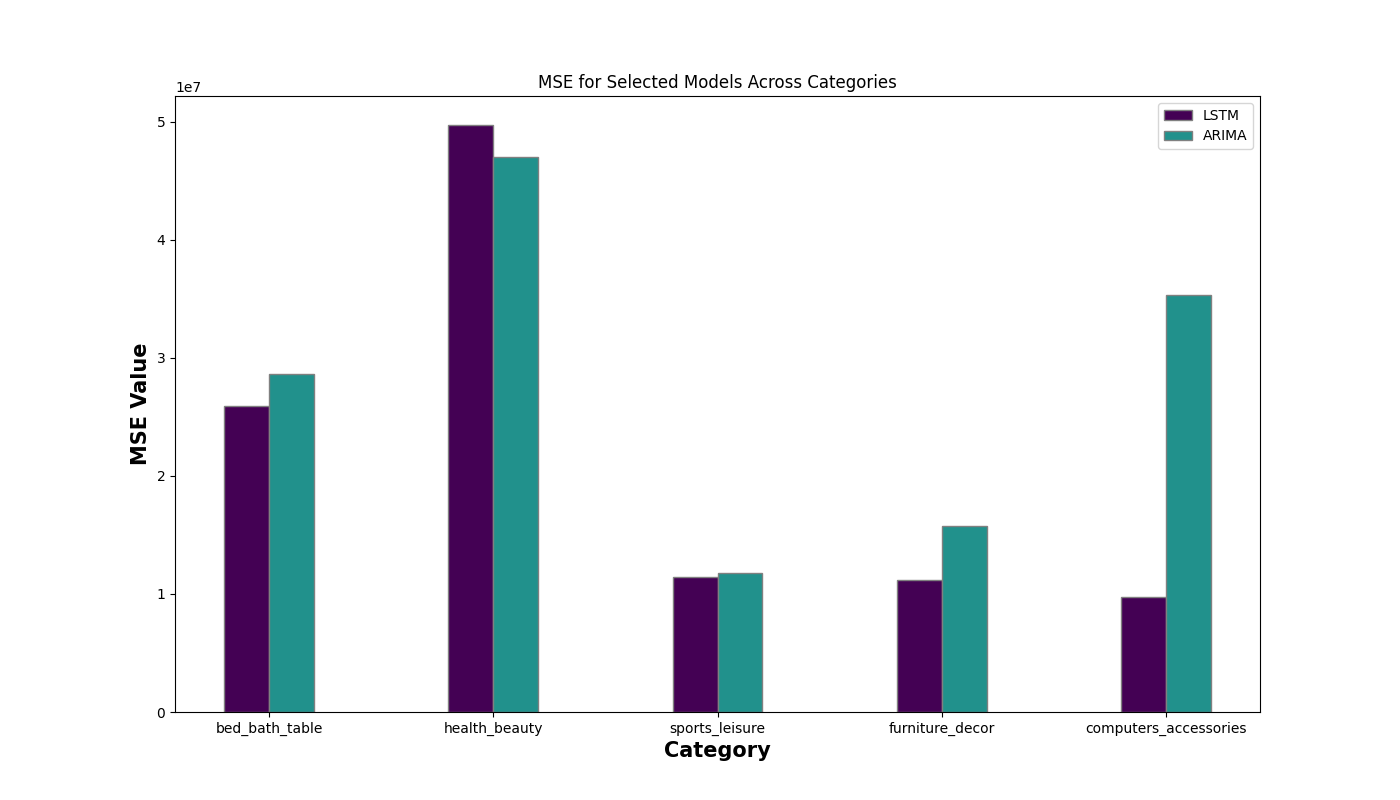
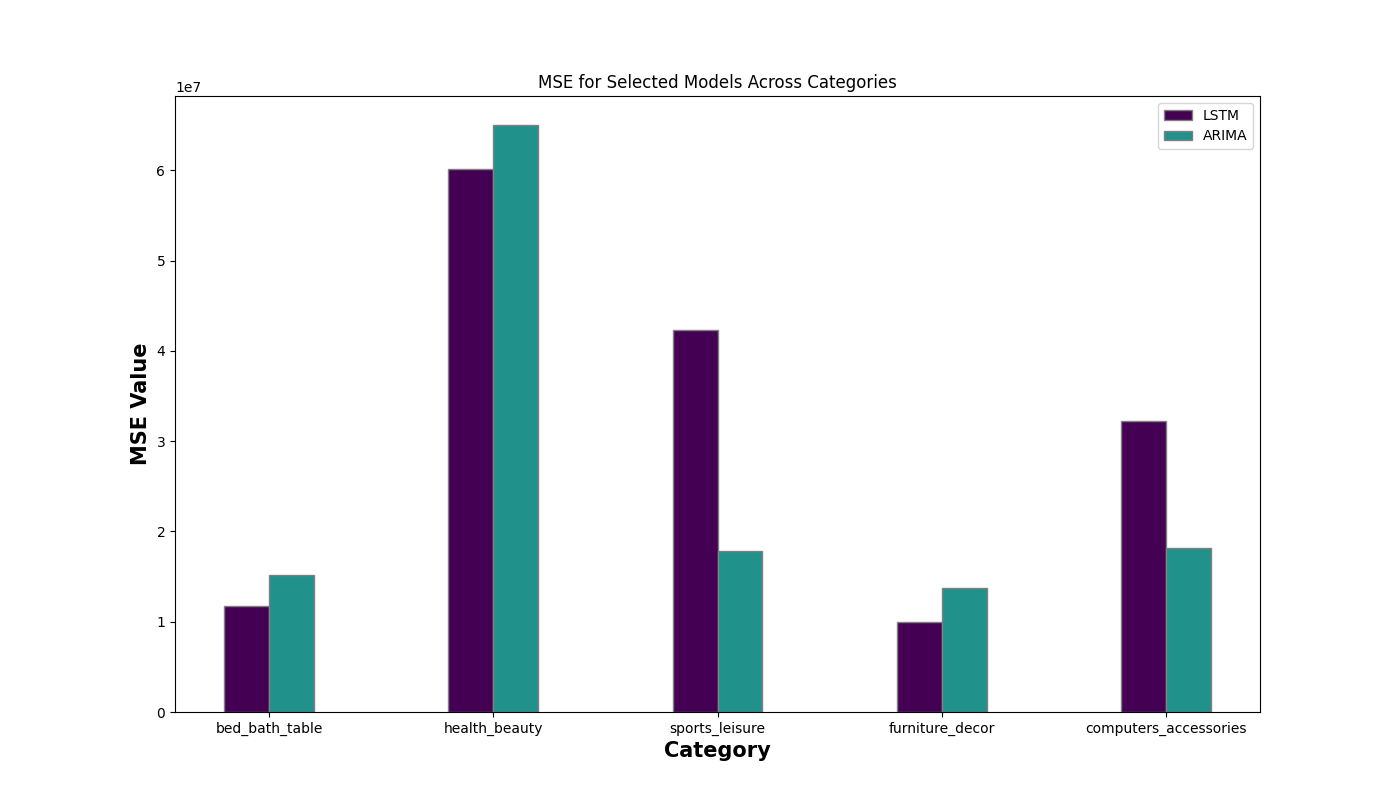
More minor fixes

diff --git a/LSTM.py b/LSTM.py
@@ -11,9 +11,9 @@ import os
 import pandas as pd
 
 # Parameters
-time_steps = 2 # Number of weeks used to predict next weeks data
+time_steps = 1 # Number of weeks used to predict next weeks data
 training_percentage = 0.8
-validation_percentage = 0.5 # what percentage of the validation/testing data should be use for validation
+validation_percentage = 0.3 # what percentage of the validation/testing data should be use for validation
 output_name = 'price' #Name of the output feature
 
 # The categories list for which product type a model should be created
@@ -41,12 +41,12 @@ for category in categories:
 
     # Create train, validate, and test data sets
     training_weeks = int(training_percentage * len(X))
-    X_train, X_validate = split_data(X, training_weeks)
-    y_train, y_validate = split_data(y, training_weeks)
+    X_train, X_test = split_data(X, training_weeks)
+    y_train, y_test = split_data(y, training_weeks)
 
-    validation_weeks = int(validation_percentage * (len(X) - training_weeks))
-    X_validate, X_test = split_data(X_validate, validation_weeks)
-    y_validate, y_test = split_data(y_validate, validation_weeks)
+    validation_weeks = int((1-validation_percentage) * training_weeks)
+    X_validate = X_train[validation_weeks:]
+    y_validate = y_train[validation_weeks:]
 
     # Scale train and validation data
     X_train_scaled, X_validate_scaled, X_test_scaled, X_scaler = scale_data(X_train, X_validate, X_test)
@@ -91,7 +91,7 @@ for category in categories:
     # Store validation data
     error_metrics[category] = {'mse': mse, 'mae': mae, 'r2': r2}
     y_pred_all[category] = y_pred
-    y_true_all[category] = y_test
+    y_true_all[category] = y_true
     histories[category] = history
 
 # Store error metrics

diff --git a/plot.py b/plot.py
@@ -11,7 +11,7 @@ result_path = os.path.join(os.getcwd(), "results")
 # input parameters
 output_name = 'price'
 categories = ["bed_bath_table", "health_beauty", "sports_leisure", "furniture_decor", "computers_accessories"]
-model = 'ARIMA'
+model = 'LSTM'
 
 # plot parameters
 y_pred = pd.read_csv(os.path.join(result_path, model + '_y_pred.csv'))
@@ -35,7 +35,7 @@ def plot_selected_category(change):
         plt.figure(figsize=(12, 4))
 
         # Plot 1: Training and validation loss
-        if model == 'LTSM':
+        if model == 'LSTM':
             plt.subplot(1, 2, 1)
             df_history = pd.read_csv(os.path.join(result_path, model + '_history_' + cat + '.csv'))
             plt.plot(df_history['loss'], label='Train Loss')

diff --git a/sarima.py b/sarima.py
@@ -11,7 +11,7 @@ warnings.filterwarnings("ignore")
 
 # Parameters
 time_steps = 1 # Number of weeks used to predict next weeks data
-training_percentage = 0.90
+training_percentage = 0.80
 output_name = 'price' #Name of the output feature
 
 # The categories list for which product type a model should be created

diff --git a/create_figures.py b/create_figures.py
@@ -6,8 +6,8 @@ from matplotlib import colormaps
 
 # Choose m
 selected_models = [ 'LSTM', 'ARIMA']
-selected_error = 'r2'
-fig_name = 'r2.png'
+selected_error = 'mse'
+fig_name = 'mse.png'
 path = os.path.join(os.getcwd(), "figures/" + fig_name)
 
 cmap = plt.get_cmap('viridis')  # Get the Viridis colormap
